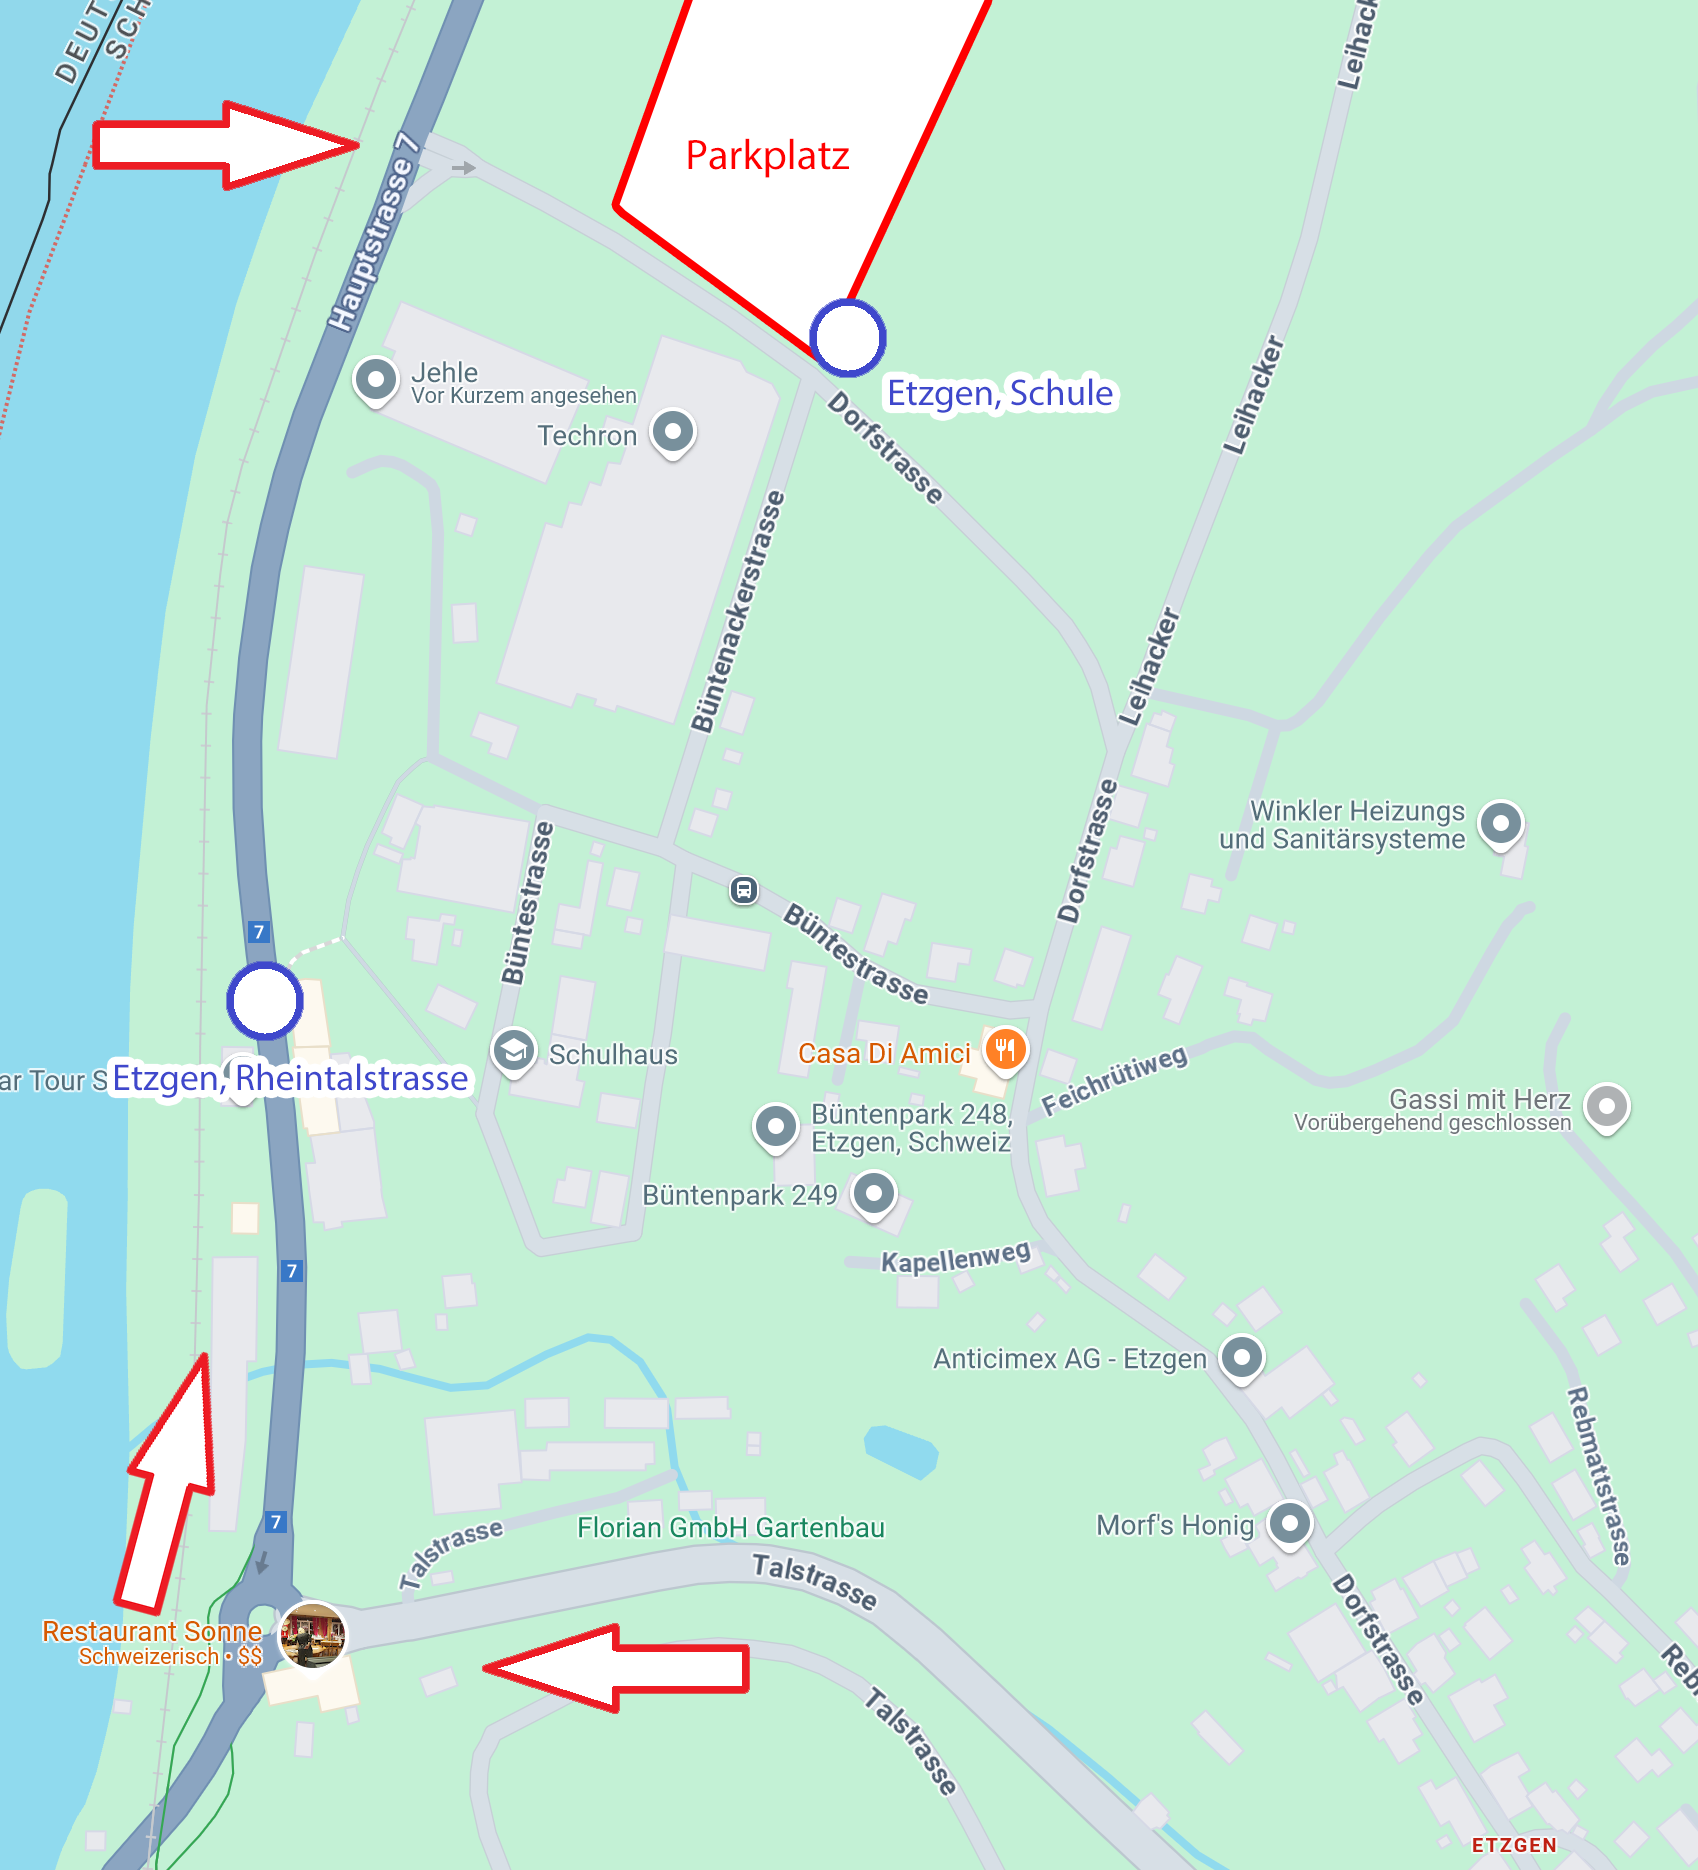
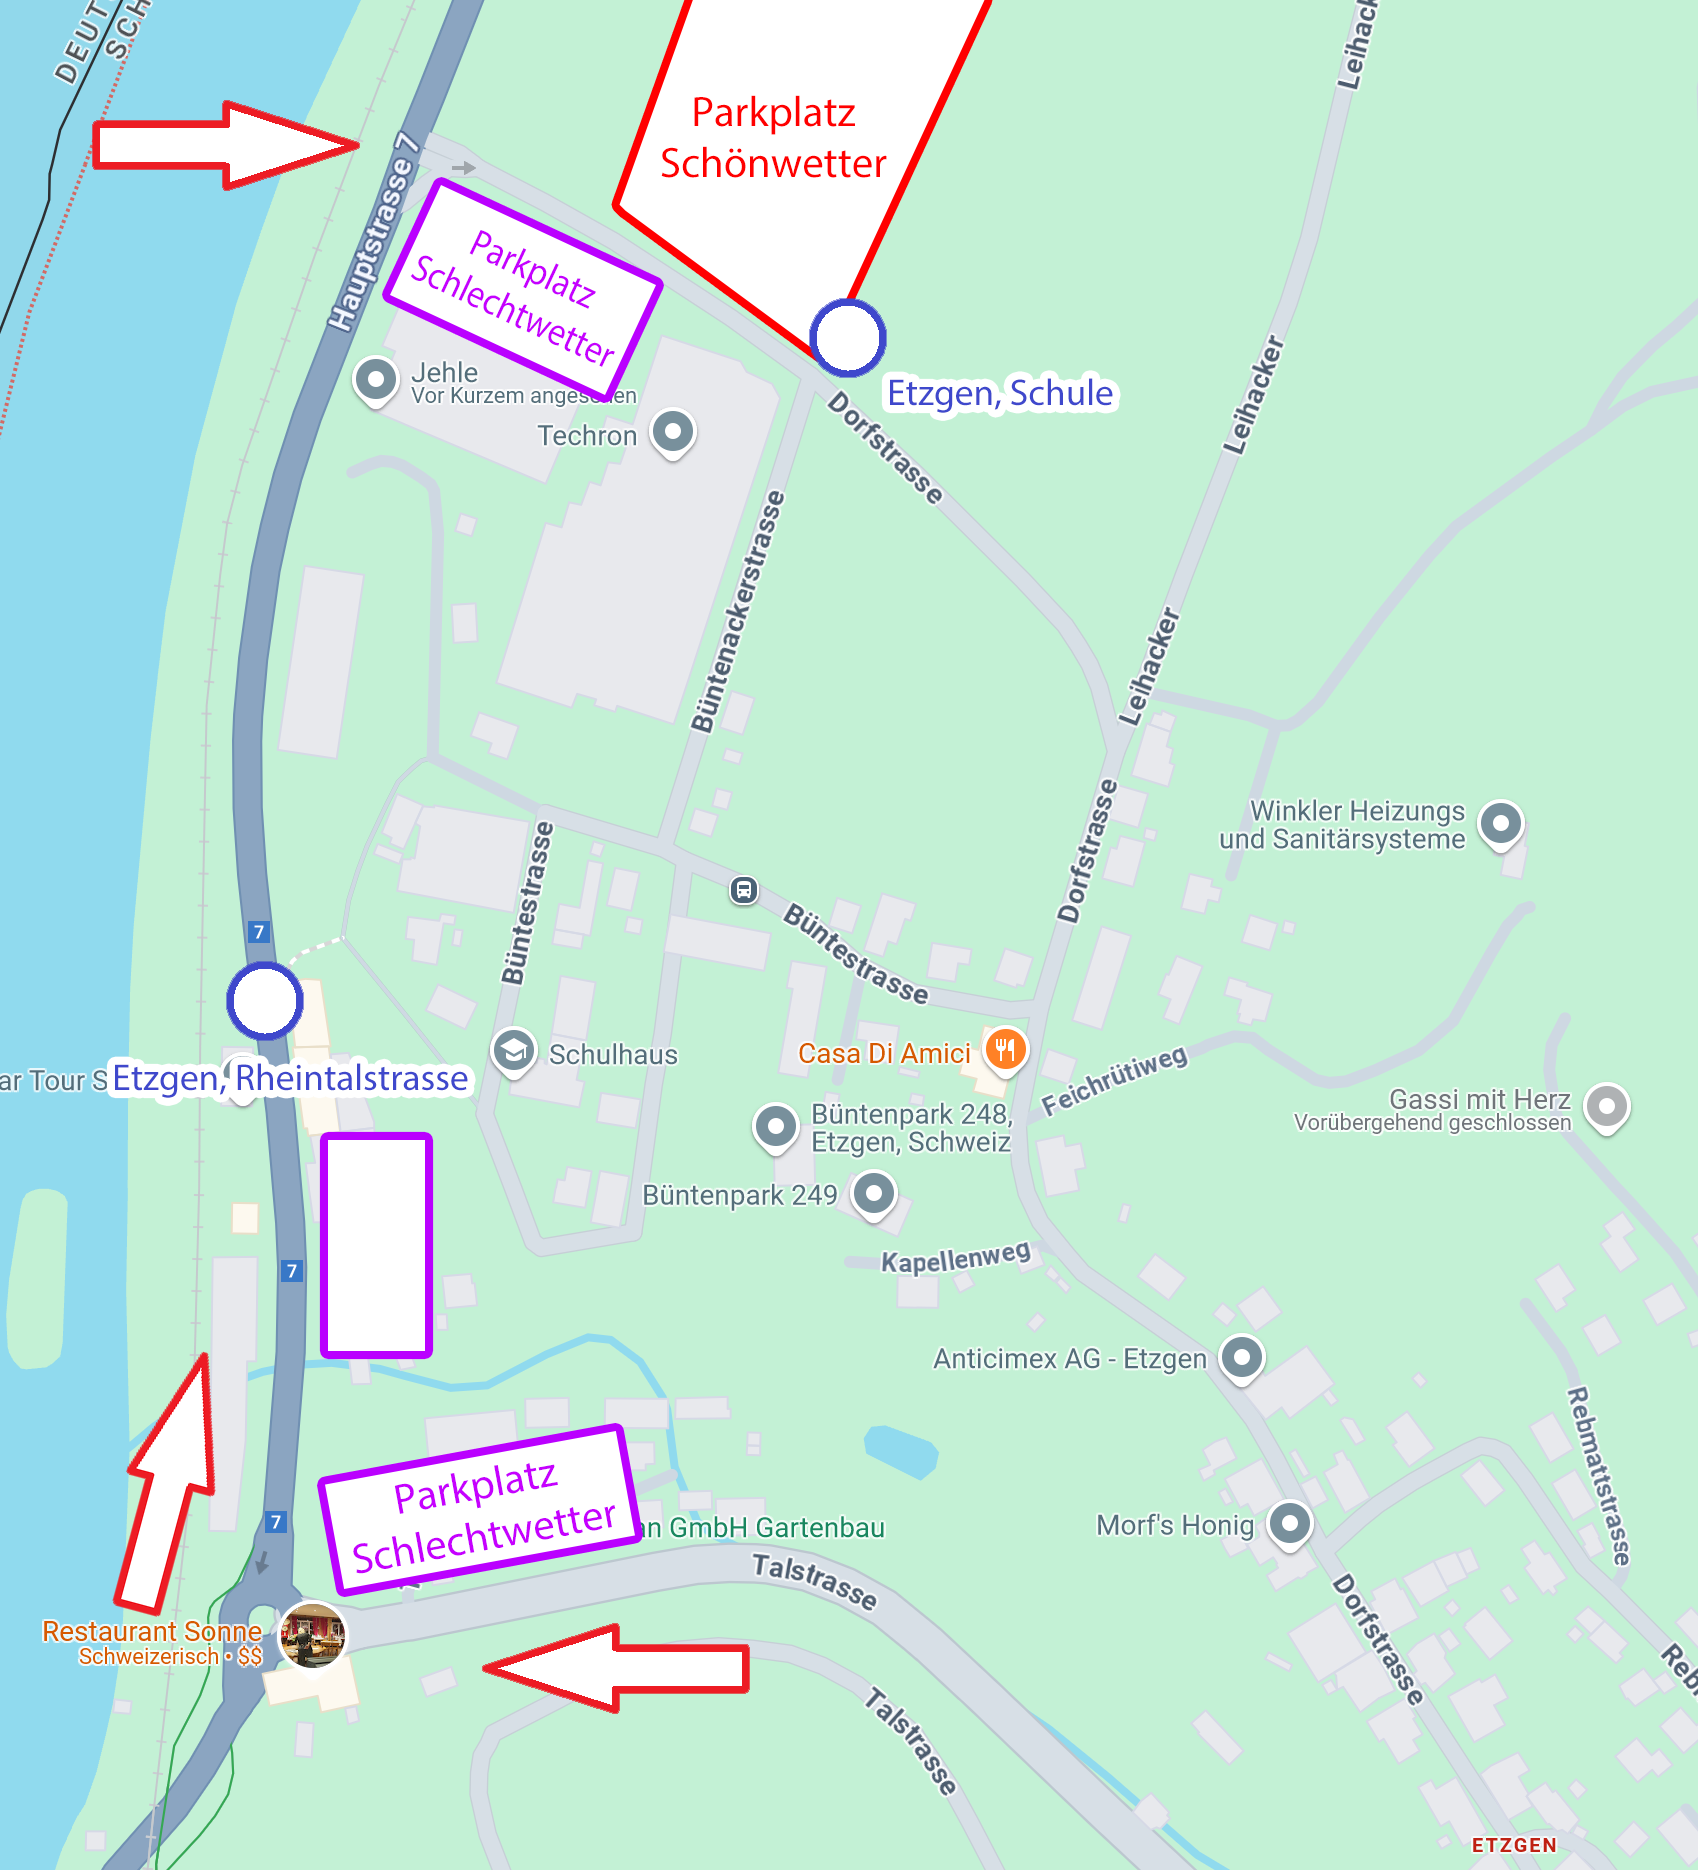
Information zu Schlechtwetter-Parkplätze

diff --git a/content/turnbetrieb/standort/index.md b/content/turnbetrieb/standort/index.md
@@ -27,7 +27,7 @@ Infostand und Fundbüro
 Falls du etwas auf dem Festgelände nicht finden kannst oder sonstige Fragen hast,
 kannst du dich jederzeit bei der **Anmeldung (Nr. 12)** melden.
 Dort kannst du dich auch melden,
-falls du ein Fundgegenstand abgeben willst oder selber etwas verlohren hast.
+falls du ein Fundgegenstand abgeben willst oder selber etwas verloren hast.
 
 
 Anreise mit ÖV
@@ -56,10 +56,13 @@ Anreise mit PKW und Parkplätze
 ------------------------------
 
 Die Anreise per Auto ist ebenfalls gut machbar.
-Wir haben einen grossen Parkplatz direkt am Rand des Festgeländes.
+Wir haben einen grossen Parkplatz (rot) direkt am Rand des Festgeländes.
 Diesen erreicht ihr am Besten über die **Kreuzung Haupstrasse-Dorfstrasse**.
 
 Aus Richtung Laufenburg und Brugg fahrt ihr dazu am Kreisel beim Restaurant Sonne vorbei.
 Aus Richtung Döttingen ist die Kreuzung direkt vor dem Dorfeingang links.
 
 ![Karte Anreise](karte_anreise.png)
+
+Im Schlechtwetterfall können wir den grossen Parkplatz (rot) auf dem Feld nicht benutzten.
+In diesem Fall wird euch der Verkehrsdienst auf die Schlechtwetter-Parkplätze (violett) verteilen.
